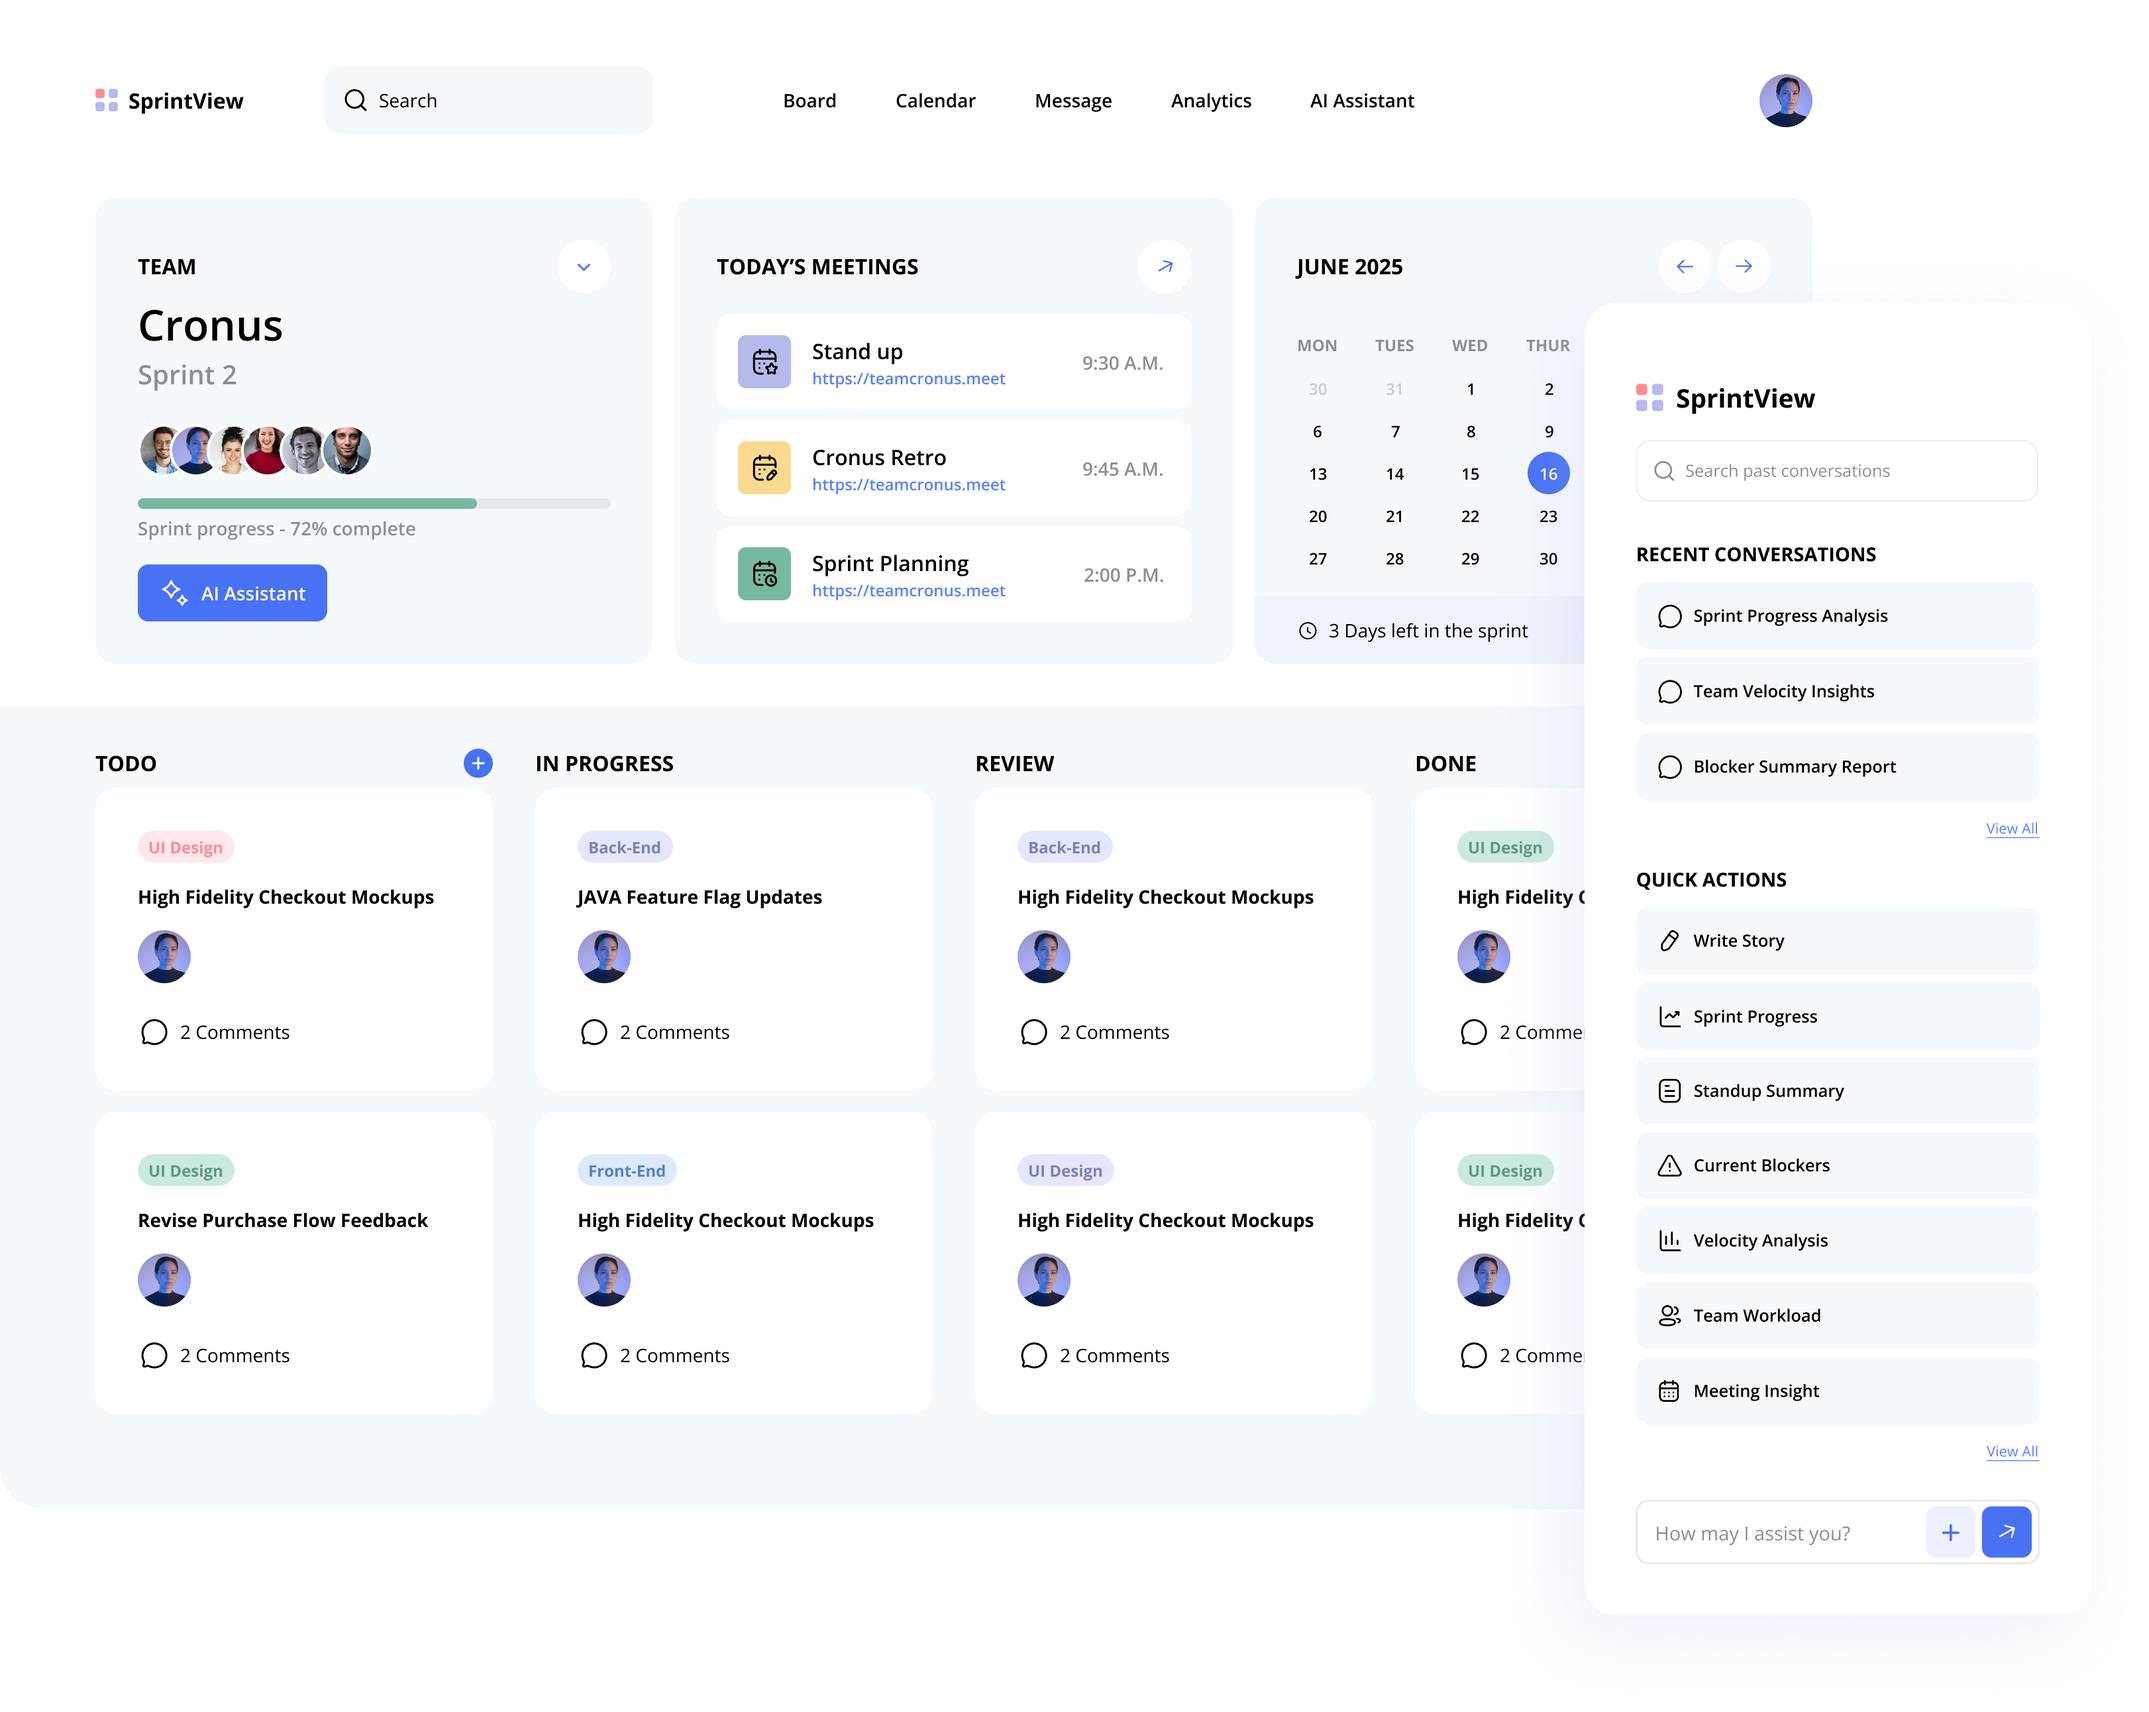
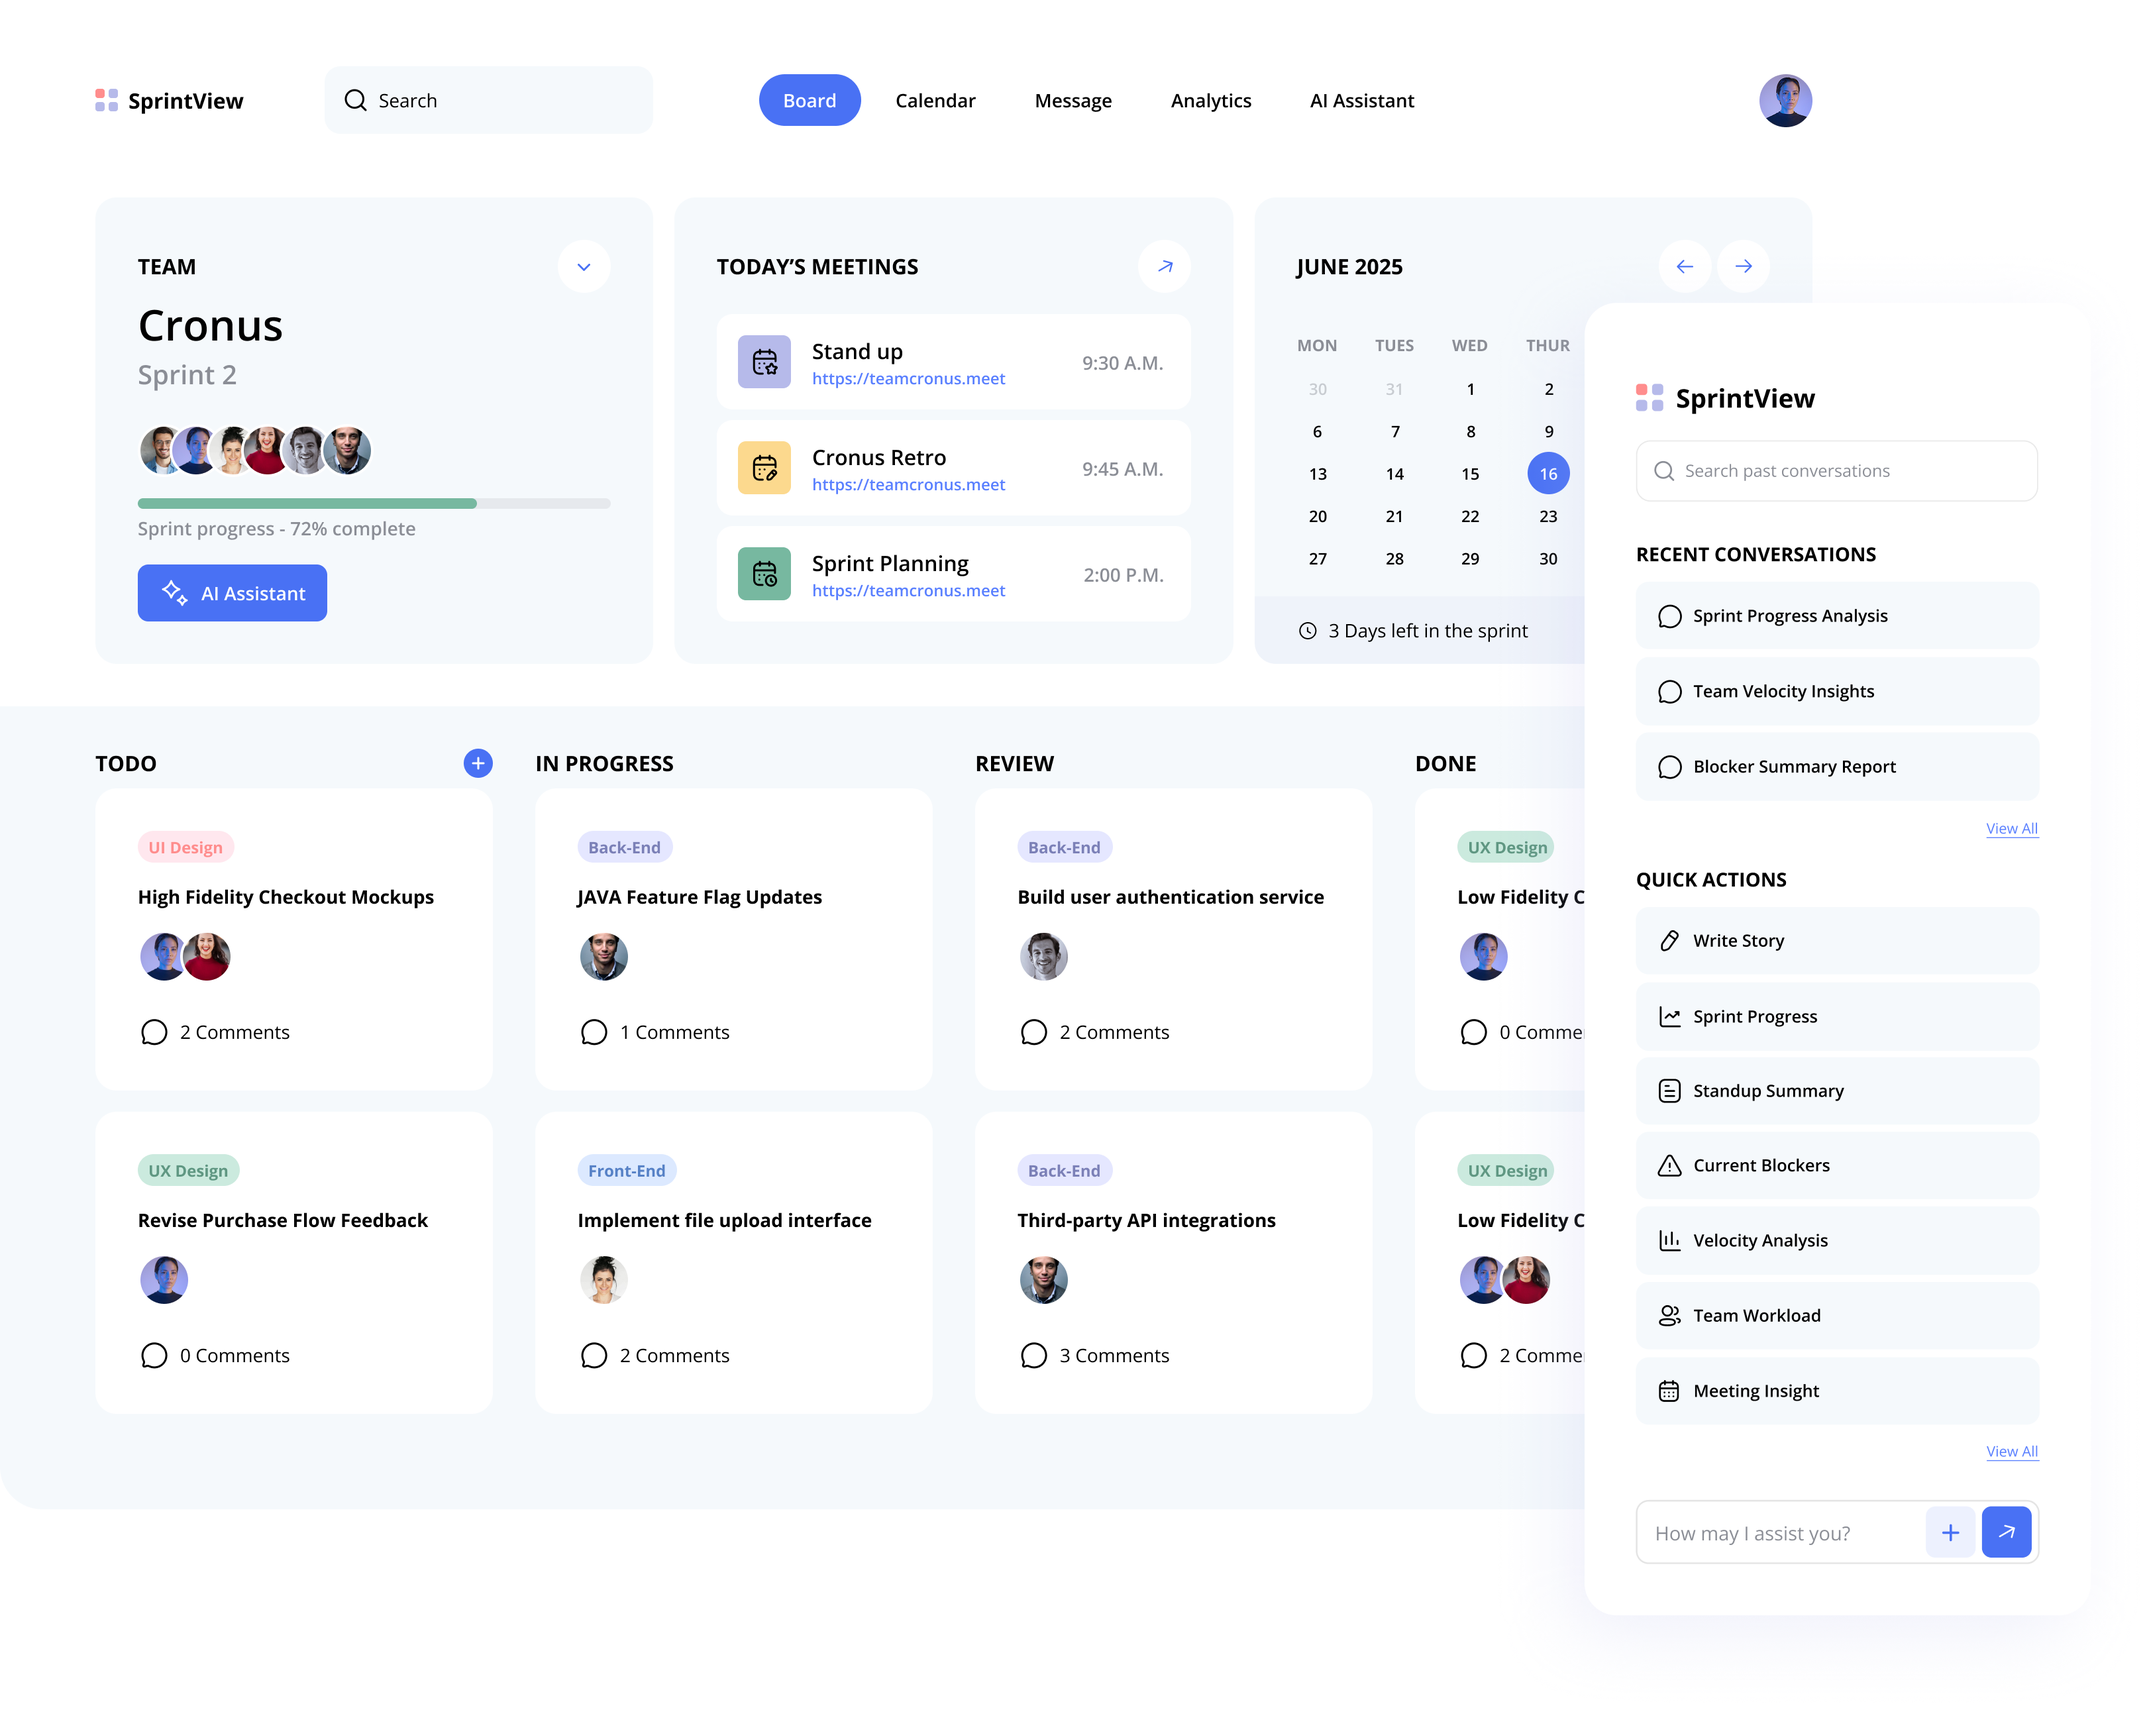
Updated Hero Image and adjust text for case study

diff --git a/src/components/DesignWork.jsx b/src/components/DesignWork.jsx
@@ -7,6 +7,7 @@ import {
   Box,
   Stack,
   Tooltip,
+  useTheme,
 } from "@mui/material";
 import { useNavigate } from "react-router";
 
@@ -17,9 +18,15 @@ import RealEstateApp from "../assets/images/RealEstateApp.svg";
 
 const DesignWork = () => {
   const navigate = useNavigate();
+  const theme = useTheme();
 
   const handleViewCaseStudy = () => {
-    navigate("/sprint-view");
+    const baseUrl = window.location.origin;
+    window.open(`${baseUrl}/sprint-view`, "_blank");
+  };
+
+  const handleViewPrototype = () => {
+    window.open("https://sprintview.netlify.app/", "_blank");
   };
 
   const cardStyles = {
@@ -69,28 +76,30 @@ const DesignWork = () => {
                 SprintView
               </Typography>
 
-              <Typography variant="body1" color="text.secondary" mb={6}>
+              <Typography variant="body1" color="text.secondary" mb={4}>
                 A streamlined task and sprint management platform built to
                 support clear team communication and accountability. Sprint View
                 helps teams plan work, track progress, and stay aligned
                 throughout the sprint cycle.
               </Typography>
 
-              <Stack flexDirection="row">
-                <Tooltip
-                  title="I'm happy to walk through projects over a call. Email info@kevinsmithdesign.com to schedule."
-                  placement="bottom-start"
+              <Stack flexDirection="row" gap={1}>
+                <Button variant="contained" onClick={handleViewCaseStudy}>
+                  View Case Study
+                </Button>
+                <Button
+                  sx={{
+                    background: "#eee",
+                    color: "#000",
+                    "&:hover": {
+                      background: "#ddd",
+                    },
+                  }}
+                  variant="contained"
+                  onClick={handleViewPrototype}
                 >
-                  <span>
-                    <Button
-                      disabled
-                      variant="contained"
-                      onClick={handleViewCaseStudy}
-                    >
-                      Case Study Coming Soon
-                    </Button>
-                  </span>
-                </Tooltip>
+                  View Prototype
+                </Button>
               </Stack>
             </Box>
           </Grid>
@@ -135,7 +144,7 @@ const DesignWork = () => {
               >
                 Credit Flow
               </Typography>
-              <Typography variant="body1" color="text.secondary" mb={6}>
+              <Typography variant="body1" color="text.secondary" mb={4}>
                 A financial wellness platform designed to help users understand,
                 monitor, and improve their credit. CreditFlow offers actionable
                 insights and tools that support smarter financial decisions and
@@ -195,7 +204,7 @@ const DesignWork = () => {
                 Foodie
               </Typography>
 
-              <Typography variant="body1" color="text.secondary" mb={6}>
+              <Typography variant="body1" color="text.secondary" mb={4}>
                 A food delivery app that makes ordering easy, fast, and
                 reliable. Foodie connects users with local restaurants and helps
                 streamline the ordering experience from selection to doorstep
@@ -254,7 +263,7 @@ const DesignWork = () => {
               >
                 Madison Group
               </Typography>
-              <Typography variant="body1" color="text.secondary" mb={6}>
+              <Typography variant="body1" color="text.secondary" mb={4}>
                 A real estate discovery platform that simplifies the home-buying
                 journey. Madison Group lets users explore listings, compare
                 properties, and make confident decisions, all in one seamless

diff --git a/src/pages/SprintViewCaseStudy.jsx b/src/pages/SprintViewCaseStudy.jsx
@@ -38,6 +38,10 @@ const SprintViewCaseStudy = () => {
     setTabValue(newValue);
   };
 
+  const handleViewPrototype = () => {
+    window.open("https://sprintview.netlify.app/", "_blank");
+  };
+
   return (
     <>
       <Box
@@ -75,6 +79,7 @@ const SprintViewCaseStudy = () => {
                   boxShadow: "none",
                 },
               }}
+              onClick={handleViewPrototype}
             >
               View Prototype
             </Button>
@@ -164,13 +169,13 @@ const SprintViewCaseStudy = () => {
                 </Typography>
               </Box>
               <Typography variant="h4" pb={2} fontWeight={600}>
-                Six Teams Revealed Why Sprint Management Teams Need AI
+                Four Teams Revealed Why Sprint Management Teams Need AI
                 Intelligence
               </Typography>
             </Grid>
             <Grid size={{ md: 6 }}>
               <Typography variant="body2" mb={2}>
-                I shadowed 6 teams across 3 companies during their actual sprint
+                I shadowed 4 teams across 2 companies during their actual sprint
                 ceremonies and timed their context switches. The average team
                 lost 50 minutes per day just navigating between tools and
                 manually managing sprint overhead. Scrum Masters were playing
@@ -901,26 +906,28 @@ const SprintViewCaseStudy = () => {
                   p: "12px 24px",
                   background: "#4971F4",
                 }}
+                onClick={handleViewPrototype}
               >
                 View Prototype
               </Button>
             </Grid>
             <Grid size={{ md: 6 }}>
               <Typography variant="body2" mb={2}>
-                The unified platform delivered 260% ROI within 8 months,
-                validated a $220M addressable market opportunity for integrated
-                sprint collaboration, and positioned the company beyond
-                traditional project management into intelligent team
-                collaboration. Teams using SprintView reported higher sprint
+                My hypothesis is that the unified platform would deliver 260%
+                ROI within 8 months, unlock a $220M addressable market
+                opportunity for integrated sprint collaboration, and position
+                the company beyond traditional project management into
+                intelligent team collaboration. Based on user interviews, I
+                expect teams using SprintView to report higher sprint
                 satisfaction and more predictable delivery compared to
                 fragmented toolchains.
               </Typography>
               <Typography variant="body2" mb={6}>
-                The combination of platform consolidation and ambient
-                intelligence created a defensible competitive
+                The envisioned combination of platform consolidation and ambient
+                intelligence would create a defensible competitive
                 advantage—competitors could copy individual features, but
                 replicating the cross-platform intelligence and unified workflow
-                proved much harder.
+                would require significant investment and expertise.
               </Typography>
             </Grid>
           </Grid>
